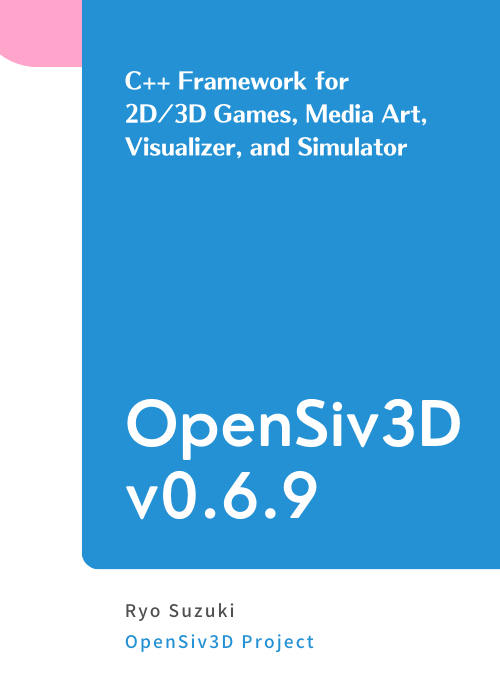
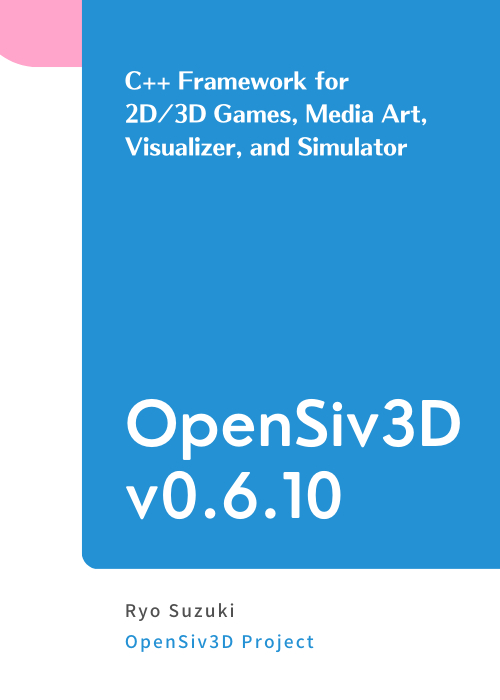
update

Changed region(s): [[0.57, 0.66, 0.69, 0.75]]

diff --git a/books/siv3d-documentation-en/course-quick-turorial.md b/books/siv3d-documentation-en/course-quick-turorial.md
@@ -773,7 +773,7 @@ void Main()
 ```
 
 ### Siv3D で使える絵文字の一覧
-Siv3D で使える絵文字は約 3,600 種類あります。絵文字を探すときは [emojipedia](https://emojipedia.org/) の Categories から調べるのが便利です。 OpenSiv3D v0.6.9 はオープンソースの絵文字フォント Noto Color Emoji (Unicode 15.0 版) を内蔵しているので、Siv3D アプリはどのプラットフォームでも同じ見た目の絵文字を表示できます。
+Siv3D で使える絵文字は約 3,600 種類あります。絵文字を探すときは [emojipedia](https://emojipedia.org/) の Categories から調べるのが便利です。 OpenSiv3D はオープンソースの絵文字フォント Noto Color Emoji (Unicode 15.0 版) を内蔵しているので、Siv3D アプリはどのプラットフォームでも同じ見た目の絵文字を表示できます。
 
 
 ## 3.2 テクスチャを拡大縮小して描画する
@@ -955,7 +955,7 @@ void Main()
 ```
 
 ### 対応している画像フォーマット
-OpenSiv3D v0.6.9 では、9 種類の画像フォーマットの読み込みがサポートされています。
+OpenSiv3D v0.6.10 では、9 種類の画像フォーマットの読み込みがサポートされています。
 
 | フォーマット   | 拡張子             | 対応状況       |
 |----------|-----------------|:----------:|
@@ -1001,7 +1001,7 @@ void Main()
 ## 3.8 動画をテクスチャとして扱う
 シーンに動画を描きたいときは `VideoTexture` を作成し、`.draw()` または `.drawAt()` します。`VideoTexture` は `Texture` とほぼ同じインタフェースを持ち、動画ファイルを `Texture` のように扱えます。`VideoTexture` は毎フレーム `.advance()` を呼ぶことで再生位置を進めます。Siv3D はバックグラウンドのスレッドで動画の次のフレームの先読みを行っています。
 
-対応する動画フォーマットはプラットフォームによって異なりますが、MP4 ファイルは Windows, macOS, Linux でサポートされています。音声付き動画の音声を再生する方法は OpenSiv3D v0.6.9 では用意されていません。映像のみです。
+対応する動画フォーマットはプラットフォームによって異なりますが、MP4 ファイルは Windows, macOS, Linux でサポートされています。音声付き動画の音声を再生する方法は OpenSiv3D v0.6.10 では用意されていません。映像のみです。
 
 https://youtu.be/B4WPEdA4vMI
 ```cpp

diff --git a/books/siv3d-documentation/course-quick-turorial.md b/books/siv3d-documentation/course-quick-turorial.md
@@ -773,7 +773,7 @@ void Main()
 ```
 
 ### Siv3D で使える絵文字の一覧
-Siv3D で使える絵文字は約 3,600 種類あります。絵文字を探すときは [emojipedia](https://emojipedia.org/) の Categories から調べるのが便利です。 OpenSiv3D v0.6.9 はオープンソースの絵文字フォント Noto Color Emoji (Unicode 15.0 版) を内蔵しているので、Siv3D アプリはどのプラットフォームでも同じ見た目の絵文字を表示できます。
+Siv3D で使える絵文字は約 3,600 種類あります。絵文字を探すときは [emojipedia](https://emojipedia.org/) の Categories から調べるのが便利です。 OpenSiv3D はオープンソースの絵文字フォント Noto Color Emoji (Unicode 15.0 版) を内蔵しているので、Siv3D アプリはどのプラットフォームでも同じ見た目の絵文字を表示できます。
 
 
 ## 3.2 テクスチャを拡大縮小して描画する
@@ -955,7 +955,7 @@ void Main()
 ```
 
 ### 対応している画像フォーマット
-OpenSiv3D v0.6.9 では、9 種類の画像フォーマットの読み込みがサポートされています。
+OpenSiv3D では、9 種類の画像フォーマットの読み込みがサポートされています。
 
 | フォーマット   | 拡張子             | 対応状況       |
 |----------|-----------------|:----------:|
@@ -1001,7 +1001,7 @@ void Main()
 ## 3.8 動画をテクスチャとして扱う
 シーンに動画を描きたいときは `VideoTexture` を作成し、`.draw()` または `.drawAt()` します。`VideoTexture` は `Texture` とほぼ同じインタフェースを持ち、動画ファイルを `Texture` のように扱えます。`VideoTexture` は毎フレーム `.advance()` を呼ぶことで再生位置を進めます。Siv3D はバックグラウンドのスレッドで動画の次のフレームの先読みを行っています。
 
-対応する動画フォーマットはプラットフォームによって異なりますが、MP4 ファイルは Windows, macOS, Linux でサポートされています。音声付き動画の音声を再生する方法は OpenSiv3D v0.6.9 では用意されていません。映像のみです。
+対応する動画フォーマットはプラットフォームによって異なりますが、MP4 ファイルは Windows, macOS, Linux でサポートされています。音声付き動画の音声を再生する方法は OpenSiv3D v0.6.10 では用意されていません。映像のみです。
 
 https://youtu.be/B4WPEdA4vMI
 ```cpp

diff --git a/books/siv3d-documentation-en/tutorial-texture.md b/books/siv3d-documentation-en/tutorial-texture.md
@@ -71,7 +71,7 @@ void Main()
 ```
 
 ### Siv3D で使える絵文字の一覧
-Siv3D で使える絵文字は約 3,600 種類あります。絵文字を探すときは [emojipedia](https://emojipedia.org/) の Categories から調べるのが便利です。 OpenSiv3D v0.6.9 はオープンソースの絵文字フォント Noto Color Emoji (Unicode 15.0 版) を内蔵しているので、Siv3D アプリはどのプラットフォームでも同じ見た目の絵文字を表示できます。
+Siv3D で使える絵文字は約 3,600 種類あります。絵文字を探すときは [emojipedia](https://emojipedia.org/) の Categories から調べるのが便利です。 OpenSiv3D はオープンソースの絵文字フォント Noto Color Emoji (Unicode 15.0 版) を内蔵しているので、Siv3D アプリはどのプラットフォームでも同じ見た目の絵文字を表示できます。
 
 ## 8.2 テクスチャを拡大縮小して描画する
 
@@ -249,7 +249,7 @@ void Main()
 ```
 
 ### 対応している画像フォーマット
-OpenSiv3D v0.6.9 では、9 種類の画像フォーマットの読み込みがサポートされています。
+OpenSiv3D v0.6.10 では、9 種類の画像フォーマットの読み込みがサポートされています。
 
 | フォーマット   | 拡張子             | 対応状況       |
 |----------|-----------------|:----------:|

diff --git a/books/siv3d-documentation/tutorial-texture.md b/books/siv3d-documentation/tutorial-texture.md
@@ -71,7 +71,7 @@ void Main()
 ```
 
 ### Siv3D で使える絵文字の一覧
-Siv3D で使える絵文字は約 3,600 種類あります。絵文字を探すときは [emojipedia](https://emojipedia.org/) の Categories から調べるのが便利です。 OpenSiv3D v0.6.9 はオープンソースの絵文字フォント Noto Color Emoji (Unicode 15.0 版) を内蔵しているので、Siv3D アプリはどのプラットフォームでも同じ見た目の絵文字を表示できます。
+Siv3D で使える絵文字は約 3,600 種類あります。絵文字を探すときは [emojipedia](https://emojipedia.org/) の Categories から調べるのが便利です。 OpenSiv3D はオープンソースの絵文字フォント Noto Color Emoji (Unicode 15.0 版) を内蔵しているので、Siv3D アプリはどのプラットフォームでも同じ見た目の絵文字を表示できます。
 
 ## 8.2 テクスチャを拡大縮小して描画する
 
@@ -249,7 +249,7 @@ void Main()
 ```
 
 ### 対応している画像フォーマット
-OpenSiv3D v0.6.9 では、9 種類の画像フォーマットの読み込みがサポートされています。
+OpenSiv3D では、9 種類の画像フォーマットの読み込みがサポートされています。
 
 | フォーマット   | 拡張子             | 対応状況       |
 |----------|-----------------|:----------:|

diff --git a/books/siv3d-documentation-en/tutorial-video.md b/books/siv3d-documentation-en/tutorial-video.md
@@ -12,7 +12,7 @@ free: true
 
 `VideoTexture` ではミップマップが作成されないため、動画を縮小して描く場合はあらかじめ小さい解像度の動画を用意しておくことが実行時性能上からも望ましいです。
 
-対応する動画フォーマットはプラットフォームによって異なりますが、MP4 ファイルは Windows, macOS, Linux でサポートされています。音声付き動画の音声をアプリ内で再生する方法は OpenSiv3D v0.6.9 では用意されていません。映像のみです。
+対応する動画フォーマットはプラットフォームによって異なりますが、MP4 ファイルは Windows, macOS, Linux でサポートされています。音声付き動画の音声をアプリ内で再生する方法は OpenSiv3D v0.6.10 では用意されていません。映像のみです。
 
 Windows では、のちのチュートリアルで説明する「リソースファイルの埋め込み」で埋め込んだ動画ファイルを `VideoTexture` では読み込めないという制約があります。ワークアラウンドとして、[一時ファイルに書き出す方法](https://gist.github.com/Reputeless/3d527302d459792f7a5e1094d30d0529) があります。
 

diff --git a/books/siv3d-documentation/tutorial-video.md b/books/siv3d-documentation/tutorial-video.md
@@ -12,7 +12,7 @@ free: true
 
 `VideoTexture` ではミップマップが作成されないため、動画を縮小して描く場合はあらかじめ小さい解像度の動画を用意しておくことが実行時性能上からも望ましいです。
 
-対応する動画フォーマットはプラットフォームによって異なりますが、MP4 ファイルは Windows, macOS, Linux でサポートされています。音声付き動画の音声をアプリ内で再生する方法は OpenSiv3D v0.6.9 では用意されていません。映像のみです。
+対応する動画フォーマットはプラットフォームによって異なりますが、MP4 ファイルは Windows, macOS, Linux でサポートされています。音声付き動画の音声をアプリ内で再生する方法は OpenSiv3D v0.6.10 では用意されていません。映像のみです。
 
 Windows では、のちのチュートリアルで説明する「リソースファイルの埋め込み」で埋め込んだ動画ファイルを `VideoTexture` では読み込めないという制約があります。ワークアラウンドとして、[一時ファイルに書き出す方法](https://gist.github.com/Reputeless/3d527302d459792f7a5e1094d30d0529) があります。
 

diff --git a/books/siv3d-documentation-en/tutorial-scene.md b/books/siv3d-documentation-en/tutorial-scene.md
@@ -22,7 +22,7 @@ Siv3D プログラムにおける画面表示を理解するには、「3 つの
 #### ② 仮想ウィンドウサイズ
 ユーザのデスクトップ上における、ウィンドウの**クライアント領域**（タイトルバーやフレームを除く、描画が行われる領域）の見かけのサイズです。`Window::GetState().virtualSize` で取得できます。この仮想ウィンドウサイズに OS 設定の拡大縮小倍率 (150%, 200% など) を乗算したものが、後述する実ウィンドウサイズになります。
 
-※ Linux 版では OS 設定の拡大縮小倍率に未対応で、仮想ウィンドウサイズと実ウィンドウサイズは同じになります（OpenSiv3D v0.6.9 現在）
+※ Linux 版では OS 設定の拡大縮小倍率に未対応で、仮想ウィンドウサイズと実ウィンドウサイズは同じになります（OpenSiv3D v0.6.10 現在）
 
 #### ③ 実ウィンドウサイズ（フレームバッファサイズ）
 モニタ上のピクセル数で計測した、ウィンドウのクライアント領域のサイズです。`Window::GetState().frameBufferSize` で取得できます。

diff --git a/books/siv3d-documentation/tutorial-scene.md b/books/siv3d-documentation/tutorial-scene.md
@@ -22,7 +22,7 @@ Siv3D プログラムにおける画面表示を理解するには、「3 つの
 #### ② 仮想ウィンドウサイズ
 ユーザのデスクトップ上における、ウィンドウの**クライアント領域**（タイトルバーやフレームを除く、描画が行われる領域）の見かけのサイズです。`Window::GetState().virtualSize` で取得できます。この仮想ウィンドウサイズに OS 設定の拡大縮小倍率 (150%, 200% など) を乗算したものが、後述する実ウィンドウサイズになります。
 
-※ Linux 版では OS 設定の拡大縮小倍率に未対応で、仮想ウィンドウサイズと実ウィンドウサイズは同じになります（OpenSiv3D v0.6.9 現在）
+※ Linux 版では OS 設定の拡大縮小倍率に未対応で、仮想ウィンドウサイズと実ウィンドウサイズは同じになります（OpenSiv3D v0.6.10 現在）
 
 #### ③ 実ウィンドウサイズ（フレームバッファサイズ）
 モニタ上のピクセル数で計測した、ウィンドウのクライアント領域のサイズです。`Window::GetState().frameBufferSize` で取得できます。

diff --git a/books/siv3d-documentation/tutorial-shader2d.md b/books/siv3d-documentation/tutorial-shader2d.md
@@ -6,7 +6,7 @@ free: true
 # 35. 2D カスタムシェーダ
 2D グラフィックスがレンダーターゲットに描かれるとき、どのような頂点座標変換を行い、どのような色を出力するかは、「**頂点シェーダ**」と「**ピクセルシェ―ダ**」と呼ばれる、GPU 上で実行される 2 つのプログラムを通して計算・決定されます。カスタムシェーダ機能を使うと、そのプログラムを変更し、GPU の計算性能をフル活用した高度な描画プログラムを実装することができます。
 
-OpenSiv3D v0.6.9 が対応するシェーダプログラミング言語は次の 3 つです。ターゲットとするプラットフォームに応じた言語を使用します。
+OpenSiv3D v0.6.10 が対応するシェーダプログラミング言語は次の 3 つです。ターゲットとするプラットフォームに応じた言語を使用します。
 - HLSL シェーダーモデル 4.0
 - GLSL 4.1
 - GLSL ES 3.0

diff --git a/books/siv3d-documentation-en/tutorial-shader2d.md b/books/siv3d-documentation-en/tutorial-shader2d.md
@@ -6,7 +6,7 @@ free: true
 # 35. 2D Shader
 2D グラフィックスがレンダーターゲットに描かれるとき、どのような頂点座標変換を行い、どのような色を出力するかは、「**頂点シェーダ**」と「**ピクセルシェ―ダ**」と呼ばれる、GPU 上で実行される 2 つのプログラムを通して計算・決定されます。カスタムシェーダ機能を使うと、そのプログラムを変更し、GPU の計算性能をフル活用した高度な描画プログラムを実装することができます。
 
-OpenSiv3D v0.6.9 が対応するシェーダプログラミング言語は次の 3 つです。ターゲットとするプラットフォームに応じた言語を使用します。
+OpenSiv3D が対応するシェーダプログラミング言語は次の 3 つです。ターゲットとするプラットフォームに応じた言語を使用します。
 - HLSL シェーダーモデル 4.0
 - GLSL 4.1
 - GLSL ES 3.0

diff --git a/books/siv3d-documentation-en/tutorial-audio.md b/books/siv3d-documentation-en/tutorial-audio.md
@@ -32,7 +32,7 @@ void Main()
 ```
 
 ### 対応している音声フォーマット
-OpenSiv3D v0.6.9 では、次のような音声フォーマットの読み込みがサポートされています。一部の音声フォーマットは OS によって対応状況が異なります。
+OpenSiv3D では、次のような音声フォーマットの読み込みがサポートされています。一部の音声フォーマットは OS によって対応状況が異なります。
 
 | フォーマット    | 拡張子                | Windows | macOS | Linux | Web |
 |-----------|--------------------|:-------:|:-----:|:-----:|:---:|

diff --git a/books/siv3d-documentation/tutorial-audio.md b/books/siv3d-documentation/tutorial-audio.md
@@ -32,7 +32,7 @@ void Main()
 ```
 
 ### 対応している音声フォーマット
-OpenSiv3D v0.6.9 では、次のような音声フォーマットの読み込みがサポートされています。一部の音声フォーマットは OS によって対応状況が異なります。
+OpenSiv3D では、次のような音声フォーマットの読み込みがサポートされています。一部の音声フォーマットは OS によって対応状況が異なります。
 
 | フォーマット    | 拡張子                | Windows | macOS | Linux | Web |
 |-----------|--------------------|:-------:|:-----:|:-----:|:---:|
